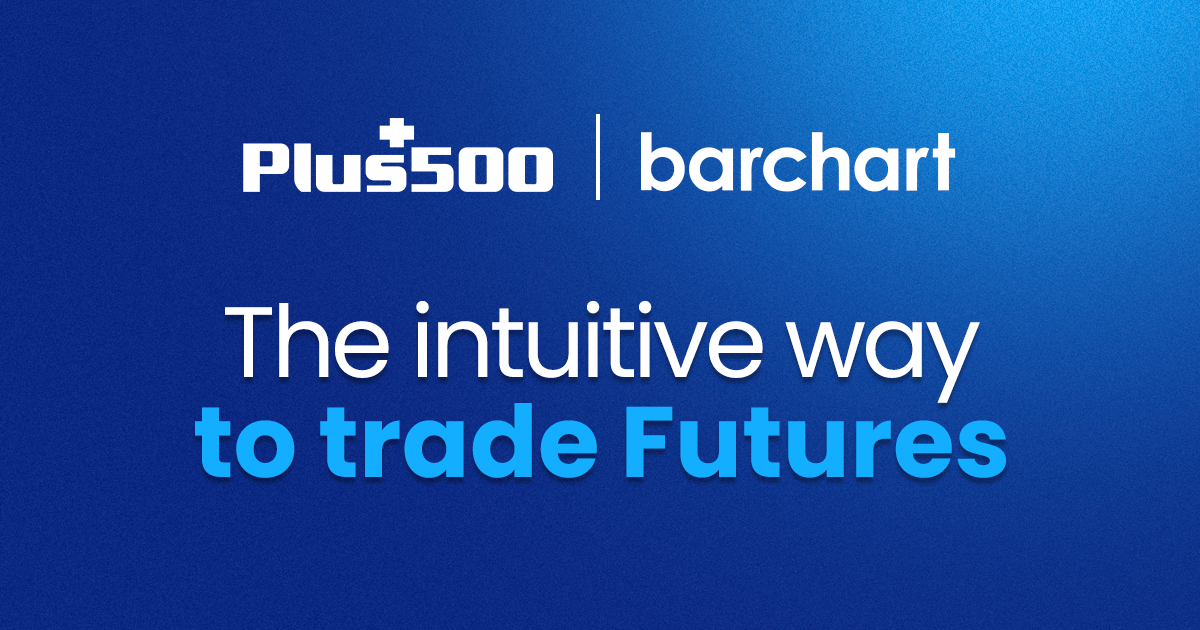
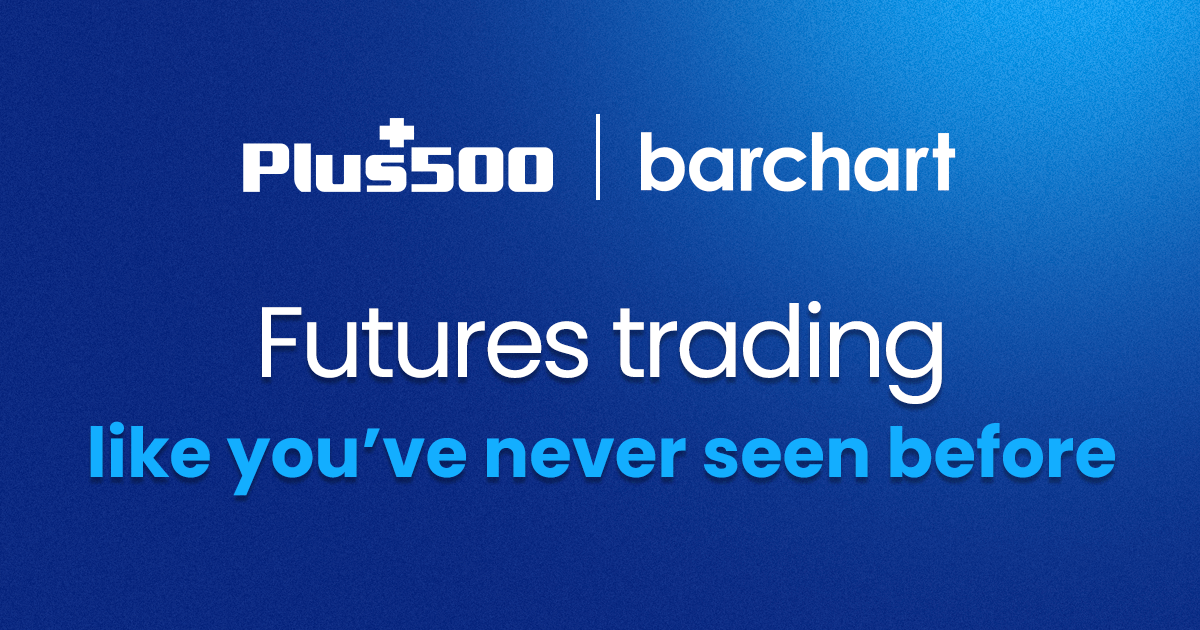
link update, og image update

Changed region(s): [[0.0617, 0.4825, 0.9558, 0.8143]]

diff --git a/index.html b/index.html
@@ -67,7 +67,7 @@
             </li>
         </ul>
         <button class="fill" type="button"
-            onclick="location.href='https://us.plus500.com/en/multiplatformdownload?product=Futures&id=137854&tags=Store+starttrading&pl=2'">Get
+            onclick="location.href='https://us.plus500.com/en/multiplatformdownload?product=Futures&id=137854&tags=LP+GetStarted&pl=2'">Get
             started ></button>
         
     </nav>
@@ -86,7 +86,7 @@
             <!-- <div class="subtitle">Over 30 million customers worldwide</div> -->
             <div class="button-strip">
                 <button class="fill" type="button"
-                    onclick="location.href='https://us.plus500.com/en/multiplatformdownload?product=Futures&id=137854&tags=Store+starttrading&pl=2'">Get
+                    onclick="location.href='https://us.plus500.com/en/multiplatformdownload?product=Futures&id=137854&tags=LP+GetStarted&pl=2'">Get
                     started ></button>
                 <button class="stroke" type="button"
                     onclick="location.href='https://futures.plus500.com/trade?id=137854&tags=DemoButton&IsRealMode=False'">Try
